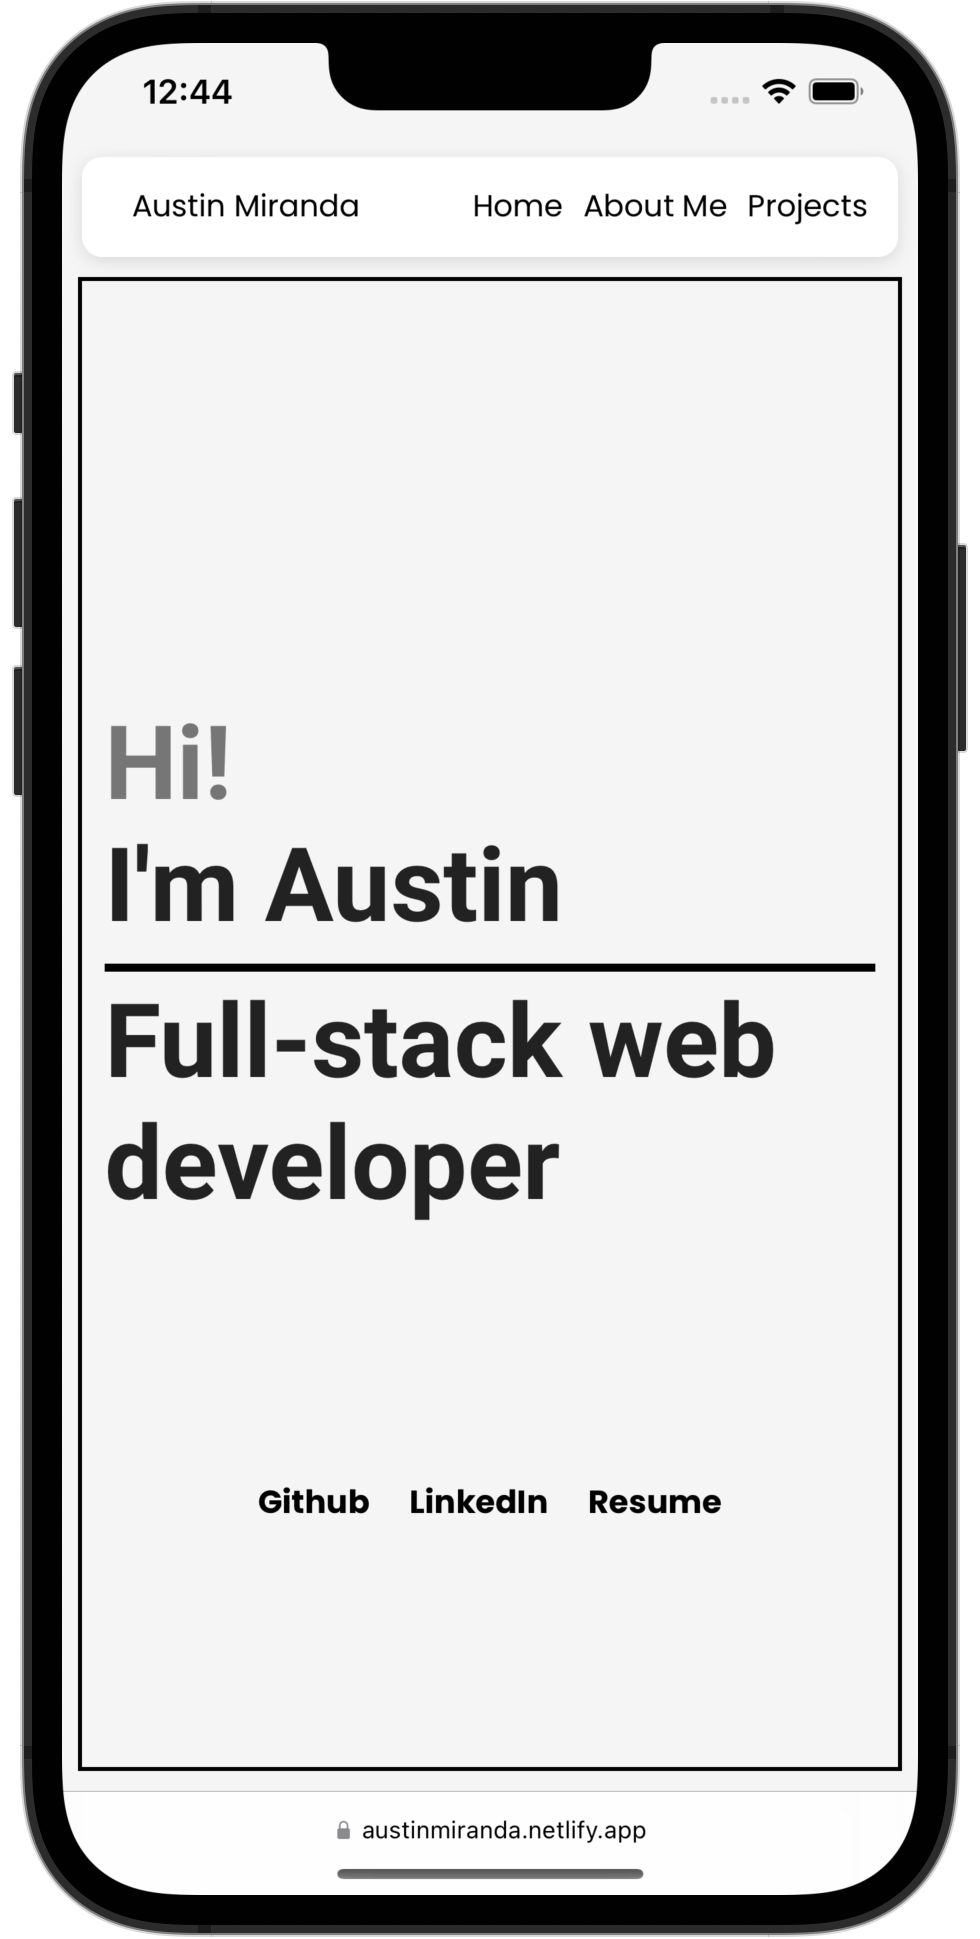
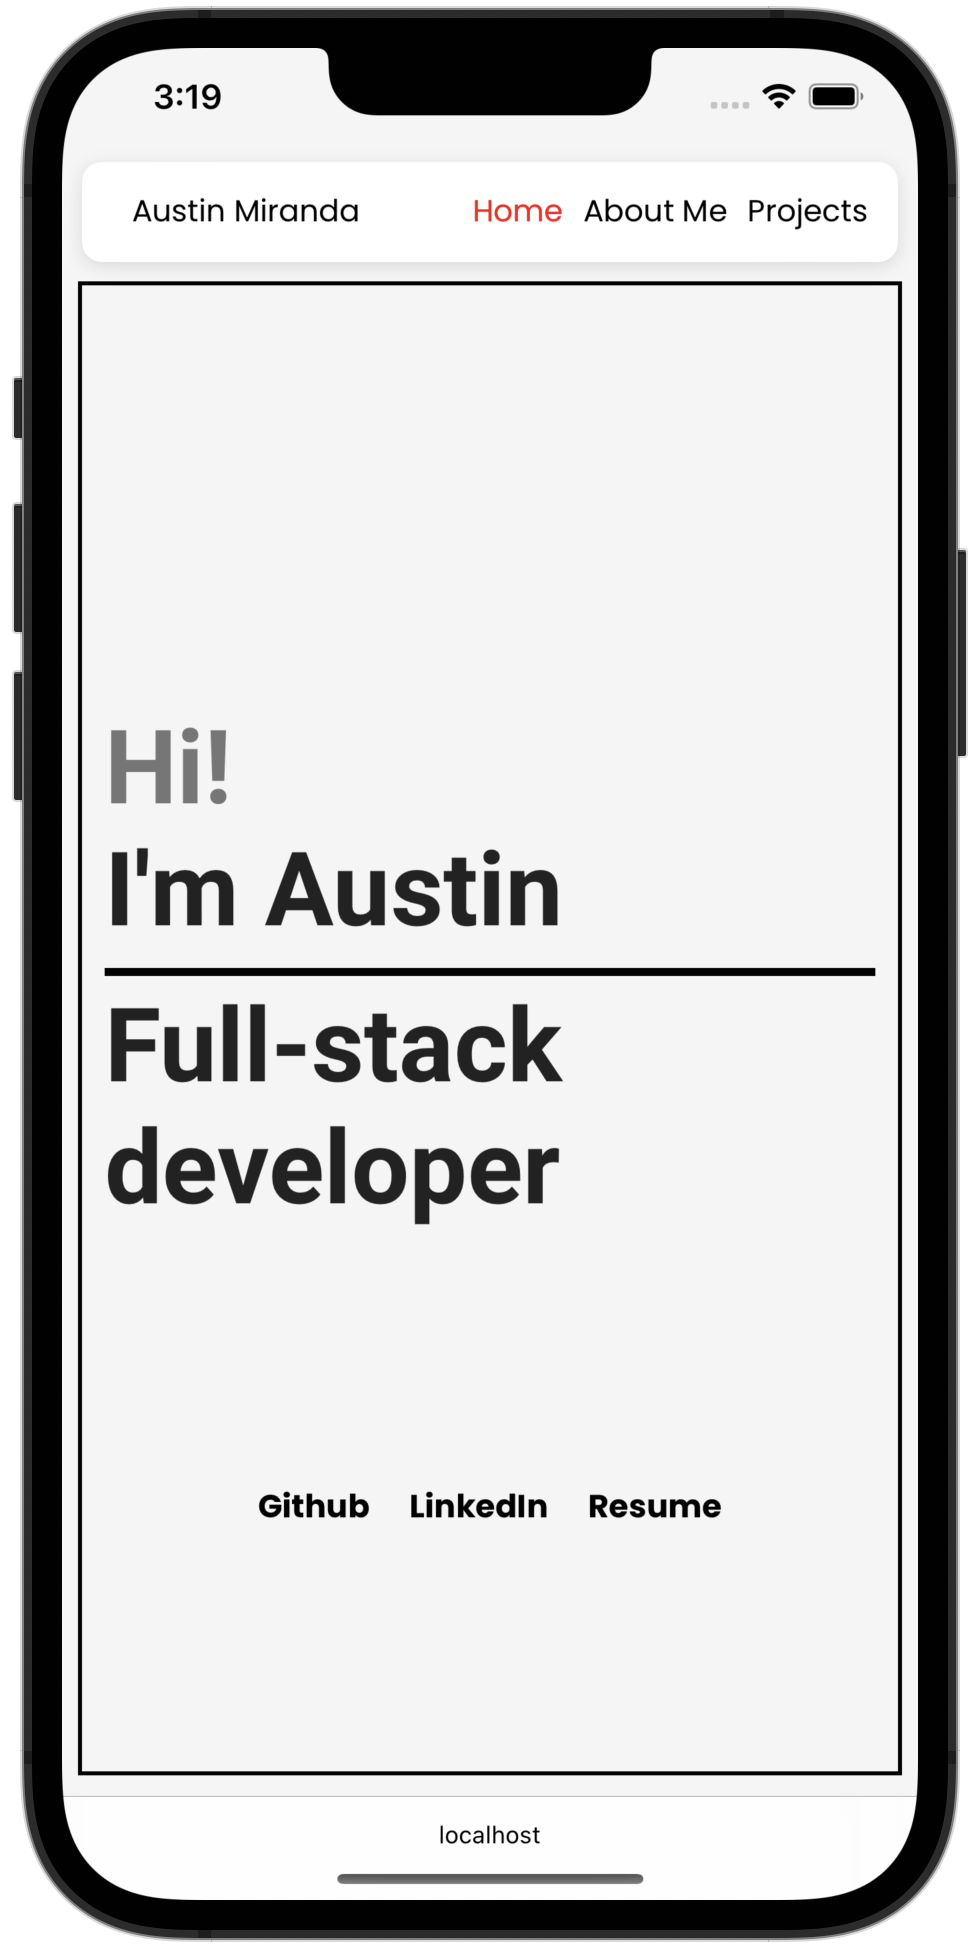
changed title, updated portfolio image

diff --git a/frontend/src/components/pages/home/Home.jsx b/frontend/src/components/pages/home/Home.jsx
@@ -12,7 +12,7 @@ export default function Home() {
                         </div>
                     </div>
                     <div className={styles.textBottom}>
-                        <div>Full-stack web developer</div>
+                        <div>Full-stack developer</div>
                     </div>
                 </div>
                 <div className={styles.links}>
